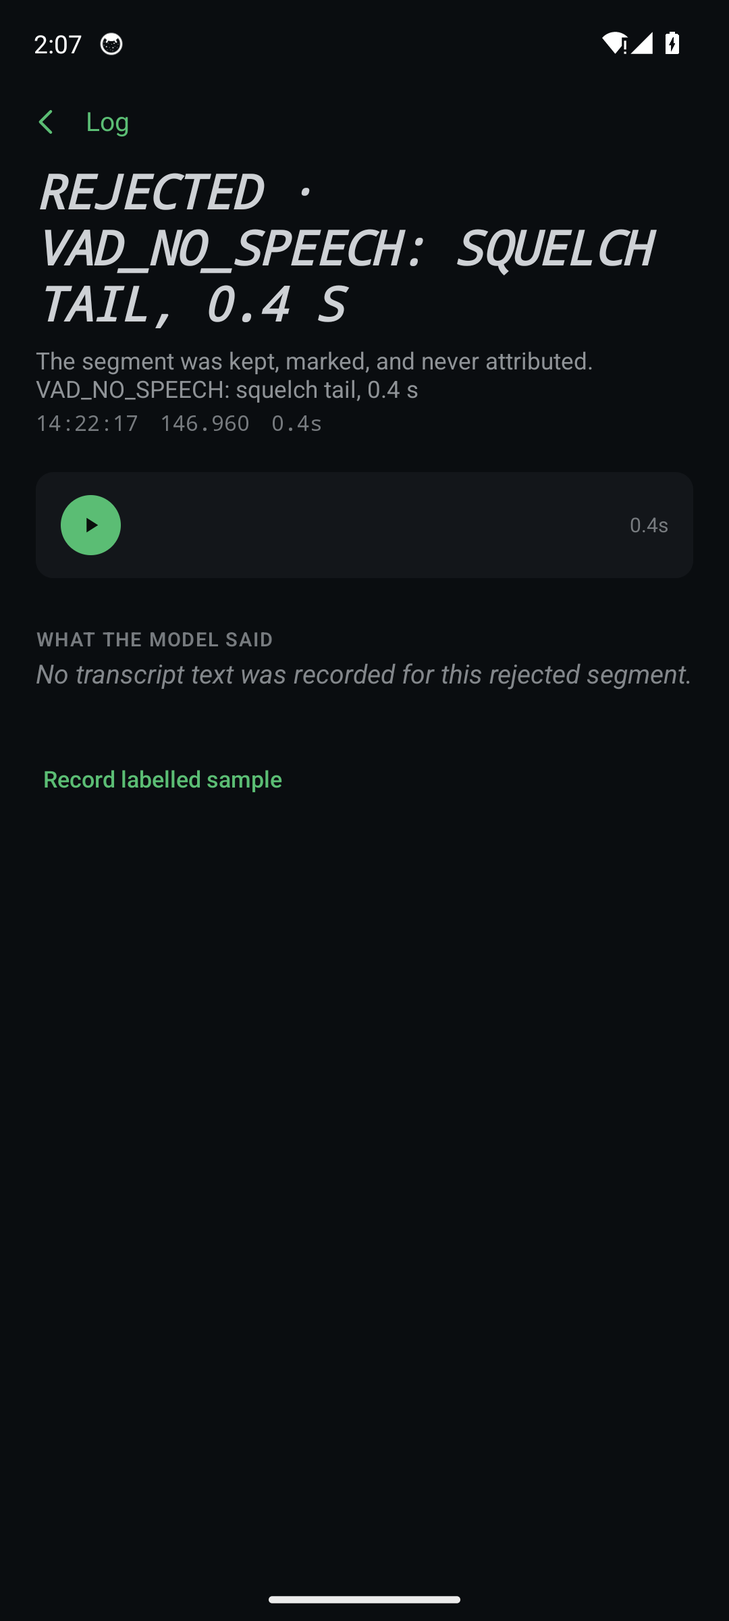
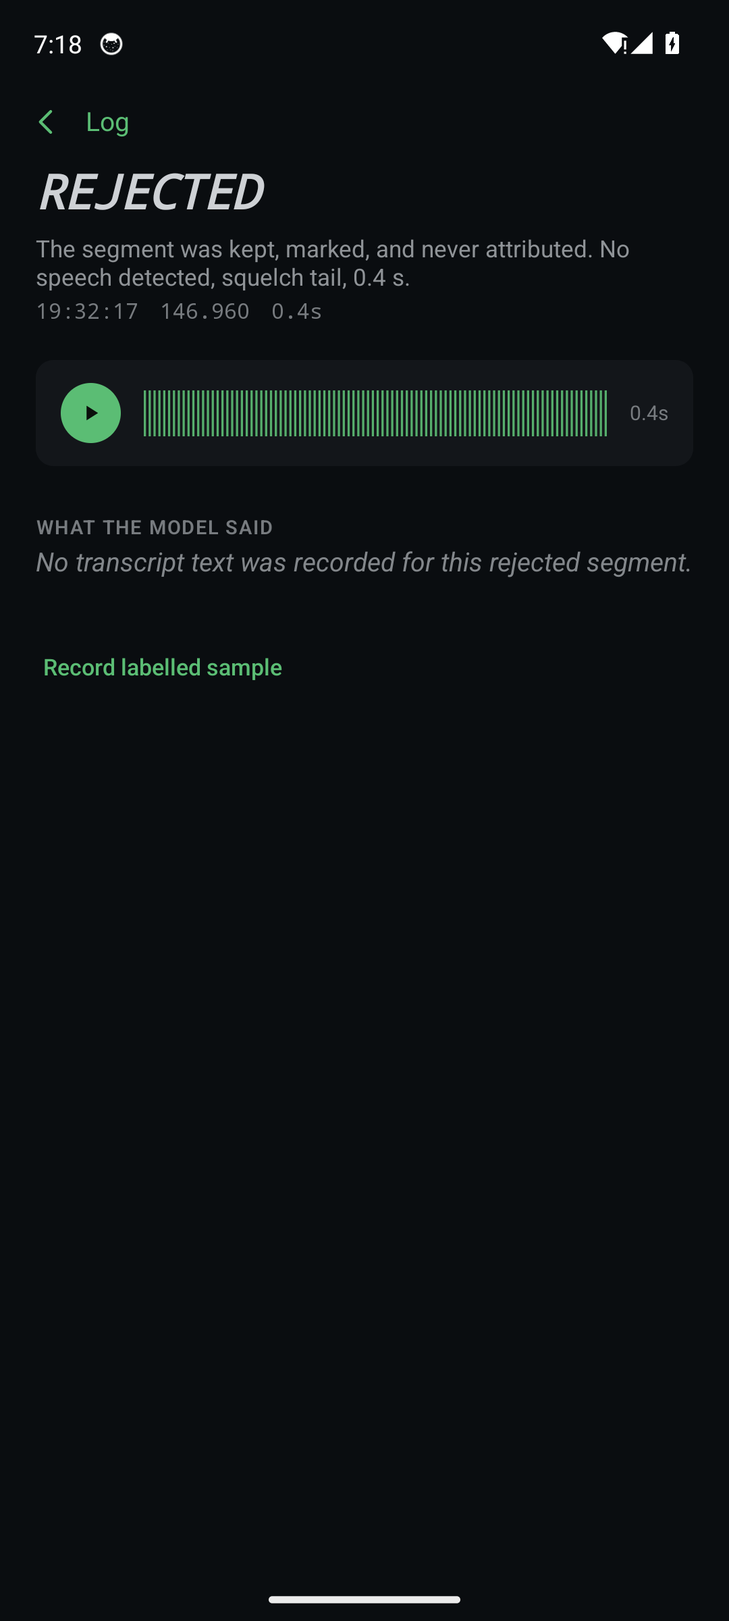
ui-conformance · V4 Detail pass 3 at 395072d: R-181/184/189/321/323/330 closed on device; R-320 grid awaits the R-421 fixture; screenshots

diff --git a/results/ui-audit/register.md b/results/ui-audit/register.md
@@ -234,15 +234,15 @@ Filed by the emulator validators (plan §E) against the build named in each row;
 | R-215 | Frequencies list | `Frequencies` | V5 @f8430b8: no "5 heard all time · 2 tonight" subtitle under the title. `stations-14-nights/FQ01.png`. WP8. Review @e927690: confirmed (`stations-14-nights/FQ01-frequencies.png`). | polish | closed |
 | R-216 | Frequency detail, Frequency-Change | `Frequency`, `Frequency-Change` | V5 @f8430b8: facts table lacks Listened (nights of N · hours) and Nets rows; subtitle shows "2 m · FM" without repeater offset / tone / type; the hour chart lacks axis labels, the "no hatch: always listening here" caption and `More`. FQ03 is unreachable because no scenario seeds a busier-than-usual night — add `frequency-change` to `app/src/debug`. `stations-14-nights/FQ02-detail.png`. WP8. V5 pass 3 @0455401: re-confirmed on `frequency-change` (`frequency-change/FQ02-146960-pass3.png`). | spec | closed |
 | R-180 | D01–D03 Why section, D05 | `Detail-Why`, FR-UI-8 | V4 @59383e0: "Why this callsign" is a raw text dump ("Lattice: ACOUSTIC · model phonetic-lattice-v1", prior rows labelled `callsign-history` / `database` — key names, not guide §9 prose) with no lattice slots, prior bars or ranked candidates; **`Full lattice` is a dead tap** — the same screen re-renders, D05 is never reached. R-051 reopened. `overnight/D05-why.png`. WP6. WP6 a9c24c6: real why-section components; "Full lattice" route confirmed working (stale `screens.json` coordinates). V4 pass 2 @ee4fd07: `Full lattice` opens D05 with real priors and survivors, but section 1 still has no per-slot lattice → R-320 (halt). WP6 7314280 closes the remaining half (per-slot grid) — see R-320. | halt | fixed |
-| R-181 | D01–D04, F18 | `Detail`, guide §6.16 | V4 @59383e0: `WaveformCard` draws only the play button and duration — the bar row is empty on every over, idle or playing. R-054 reopened. `overnight/D01-confirmed-rich.png`. WP6 (+WP2 if the card needs real samples). WP6 a9c24c6: not done — needs decoded audio; revisit once WP4 seeds real FLAC (R-290). WP6 c6b1e2c: `WaveformSummaryComputer` (96 peak buckets from the decoded retained audio via the same `FlacSegmentAudioProvider` path `play()` uses, cached per transmission; fake ships) feeds `WaveformCard`; no audio → `NoAudioNotice`, never fake bars; tests `R_181`. Review @e927690: real bars (`overnight/D01-confirmed.png`). | design | closed |
+| R-181 | D01–D04, F18 | `Detail`, guide §6.16 | V4 @59383e0: `WaveformCard` draws only the play button and duration — the bar row is empty on every over, idle or playing. R-054 reopened. `overnight/D01-confirmed-rich.png`. WP6 (+WP2 if the card needs real samples). WP6 a9c24c6: not done — needs decoded audio; revisit once WP4 seeds real FLAC (R-290). WP6 c6b1e2c: `WaveformSummaryComputer` (96 peak buckets from the decoded retained audio via the same `FlacSegmentAudioProvider` path `play()` uses, cached per transmission; fake ships) feeds `WaveformCard`; no audio → `NoAudioNotice`, never fake bars; tests `R_181`. Review @e927690: real bars (`overnight/D01-confirmed.png`). V4 pass 3 @395072d: real bars on `field-tier1`, honest notice on `no-audio` (`field-tier1/D01-waveform-pass3.png`, `no-audio/D06-pass3.png`). | design | closed |
 | R-182 | D01, D03 transcript | `Detail-Confirmed`, FR-UI-4 | V4 @59383e0: the callsign span highlights only a literal callsign string; a phonetically spelled callsign ("whiskey seven november papa charlie" — the board's own example) gets no highlight. Use the resolver's recorded span, not string search. `overnight/D01-confirmed-rich.png`. WP6. WP6 a9c24c6: not done — needs resolver span data the schema lacks; `:data`/`:lexicon` question. WP6: needs a per-candidate character span (start/end into the transcript) on `CallsignCandidateEntity` — absent from the schema; `:data` + resolver work, parked for phase G decision. lexicon 250dfbb: char spans via `TextDerivedLatticeBuilder.buildAnchored`; `:pipeline` Pass B to call it (sent), :data persists, WP6 highlights. pipeline 176f267: `PassB.resolveFromText` builds anchored lattices so real Pass B runs carry char spans (`R_182_pass_b_spans`); `:data` persistence (schema v5) and WP6 highlight remain. WP6 7314280: transcript highlight uses `winningCandidateCharSpan` (literal `indexOf` only as fallback); lexicon 250dfbb + pipeline 176f267 + data 5a53f60 supply the span. Tests `R_182`. Review @e927690: no highlight visible on D01/D03 — the seeded fixtures carry no anchored spans, so `winningCandidateCharSpan` is null and the literal fallback cannot match phonetic spelling → R-421 (fixture spans). | spec | partial |
 | R-183 | D02 Inferred header | `Detail`, FR-UI-4, R-053 | V4 @59383e0: "Not heard in this over. Matched by voice. Confidence 0.70." — no "to 02:14:07, where the callsign was heard clearly" clause and no source-over link when the attribution has a source. `overnight/D02-inferred.png`. WP6. WP6 a9c24c6: real source-over time clause. V4 pass 2 @ee4fd07: confirmed (`overnight/D02-inferred-pass2.png`, `D02-source-over-pass2.png`). Review @e927690: the source link exists as a separate line, not the inline timestamp → R-423. | spec | closed |
-| R-184 | D08 Correct-A | `Detail-Correct-A`, FR-UI-6 | V4 @59383e0: "THE RESOLVER'S OTHER CANDIDATES" renders with zero rows on every over — Tier A never offers the resolver's runner-ups, so every correction falls to Tier B/C. `overnight/D08-correct-a.png`. WP6. WP6 a9c24c6: derivation verified by test; the zero rows on device are the single-candidate fixture — WP4 to seed a multi-candidate Tier A over (`app/src/debug`). WP4 95267d4: the AMBIGUOUS over in `overnight` and `stations-14-nights` carries three ranked candidates (KE7QRS/KE7QRF/KE7QRZ); `AmbiguousCandidatesFixtureTest`. | halt | fixed |
+| R-184 | D08 Correct-A | `Detail-Correct-A`, FR-UI-6 | V4 @59383e0: "THE RESOLVER'S OTHER CANDIDATES" renders with zero rows on every over — Tier A never offers the resolver's runner-ups, so every correction falls to Tier B/C. `overnight/D08-correct-a.png`. WP6. WP6 a9c24c6: derivation verified by test; the zero rows on device are the single-candidate fixture — WP4 to seed a multi-candidate Tier A over (`app/src/debug`). WP4 95267d4: the AMBIGUOUS over in `overnight` and `stations-14-nights` carries three ranked candidates (KE7QRS/KE7QRF/KE7QRZ); `AmbiguousCandidatesFixtureTest`. V4 pass 3 @395072d: confirmed on device — reached via the AMBIGUOUS over's `Neither — it was something else` link, "THE RESOLVER'S OTHER CANDIDATES" lists all three ranked candidates with scores (`overnight/D08-correct-a-pass3.png`); the correction sheet is not reachable from the ambiguous chooser any other way (no separate `Not right?` on that state). V4 pass 3 @395072d: three ranked candidates with scores via "Neither — it was something else" (`overnight/D08-correct-a-pass3.png`). | halt | closed |
 | R-185 | D09 Correct-B | `Detail-Correct-B`, FR-SPK-7 | V4 @59383e0: "A station heard before" is the same grammar/prefix validator as Tier C — a station heard 4× in the session returns only "K7LWH / United States (K)" with no heard-count, no "voice on file", no "4 of 112". Tier B must search the stations this phone has heard and show the board's evidence. `overnight/D09-correct-b-full.png`. WP6. WP6 a9c24c6: Tier B searches real heard stations, not the lexicon (reverses audit F-018; disclosed in CHANGELOG). V4 pass 2 @ee4fd07: confirmed incl. live filtering (`overnight/D09-correct-b-filtered-pass2.png`). | halt | closed |
 | R-186 | D03 Ambiguous header | `Detail-Ambiguous` | V4 @59383e0: the header reads only "or KE7QRF" — the primary candidate's callsign is missing ("KE7QRS or KE7QRF"). `overnight/D03-ambiguous.png`. WP6 (+WP2 `TitleAttributionRow` alternate slot). WP6 a9c24c6: ambiguous header names the primary candidate. V4 pass 2 @ee4fd07: confirmed (`overnight/D03-ambiguous-pass2.png`). Review @e927690: confirmed (`overnight/D03-ambiguous.png`). | design | closed |
 | R-187 | D03 candidates | `Detail-Ambiguous`, FR-UI-4 | V4 @59383e0: both candidates read "a known station" with no evidence or score (board: "heard on this repeater 3 times · Oregon" / "never heard before · Oregon", chips 0.51 / 0.46), each a label plus a separate "Choose X" link instead of one evidence-bearing tappable row. `overnight/D03-ambiguous.png`. WP6. WP6 a9c24c6: chooser rows are one evidence-bearing clickable row with ITU-country evidence and score. V4 pass 2 @ee4fd07: confirmed. Review @e927690: both chooser rows read the identical evidence clause → R-425. | spec | open |
 | R-188 | D04 Unknown | `Detail-Unknown`, P1, P11 | V4 @59383e0: "What was tried" shows 2 of 4 checks (no voice-match count, no thread context) and the transcript caption ("Transcript confidence 0.61 · weak signal, cut off") is missing. `overnight/D04-unknown.png`. WP6. WP6 a9c24c6: not reached (transcript-confidence caption); voice-match/thread-context gaps pre-existing. WP6 79e4afd: transcript confidence caption from `TranscriptEntity.confidence`; voice-match distance and thread context need fields named in the CHANGELOG (parked). | spec | fixed |
-| R-189 | D01 after Undo all | `Detail-Propagated`, constitution I | V4 @59383e0: after `Undo all` the over's detail renders as UNKNOWN although the data reverted to CONFIRMED (the search list says "filled circle, Confirmed, W7NPC"); reproduced on a fresh navigation. `overnight/D01-after-undo-fresh.png`. WP6. V7 @b94bb5e: also reproduces ~2 s after applying a fresh typed correction (no Undo) — the poll refresh reverts the detail to UNKNOWN. WP6 a9c24c6: `CorrectionPolling.currentAttribution` keeps a corrected row's INFERRED state with null confidence instead of dropping to UNKNOWN (fixes Undo and fresh-correction paths). V4 pass 2 @ee4fd07: NOT fixed — the patch hardcodes INFERRED regardless of the real prior state → R-321 (halt). WP6 7314280: superseded by the R-321 restore path (the `currentAttribution` patch stays for the fresh-correction render). | halt | fixed |
+| R-189 | D01 after Undo all | `Detail-Propagated`, constitution I | V4 @59383e0: after `Undo all` the over's detail renders as UNKNOWN although the data reverted to CONFIRMED (the search list says "filled circle, Confirmed, W7NPC"); reproduced on a fresh navigation. `overnight/D01-after-undo-fresh.png`. WP6. V7 @b94bb5e: also reproduces ~2 s after applying a fresh typed correction (no Undo) — the poll refresh reverts the detail to UNKNOWN. WP6 a9c24c6: `CorrectionPolling.currentAttribution` keeps a corrected row's INFERRED state with null confidence instead of dropping to UNKNOWN (fixes Undo and fresh-correction paths). V4 pass 2 @ee4fd07: NOT fixed — the patch hardcodes INFERRED regardless of the real prior state → R-321 (halt). WP6 7314280: superseded by the R-321 restore path (the `currentAttribution` patch stays for the fresh-correction render). V4 pass 3 @395072d: confirmed via R-321. | halt | closed |
 | R-190 | D11 Propagated | `Detail-Propagated` | V4 @59383e0: "1 overs re-attributed", "THE 1 OVERS…"; "0 voiceprint now belongs to VE7ABC" / "0 priors updated" phrase a zero as if it happened — follow the board's zero-row pattern and the shared plural helper. `overnight/D11-propagated2.png`. WP6. WP6 a9c24c6: pluralisation, honest zero-voiceprint wording, `bg/card`, marker+badge. V4 pass 2 @ee4fd07: confirmed (`overnight/D11-propagated-pass2.png`). | design | closed |
 | R-191 | D11 Propagated | `Detail-Propagated` | V4 @59383e0: no `bg/card` around WHAT CHANGED; the affected row has no marker or `CORRECTED` badge; the subtitle lacks the method/time clause. `overnight/D11-propagated2.png`. WP6. WP6 a9c24c6: real method/time subtitle. V4 pass 2 @ee4fd07: confirmed. | design | closed |
 | R-192 | Station detail → Identity | `Station`, `Station-Identity` | V4 @59383e0: no Identity section on Station detail, F10 judged unreachable. V5 reached ST04 through the header kebab and verified rename — Identity exists as its own screen. WP8: if `Station.dc.html` shows an explicit Identity action/preview add it; make the kebab discoverable (description "Station identity"). `overnight/station-wa7hjr.png`. WP8. WP8: board has no explicit Identity action/row (checked directly); kebab now carries `contentDescription = "Station identity"` and `testTag("station-identity-open")`. V5 pass 3 @0455401: confirmed (`stations-14-nights/ST02-kebab-pass3.png`). | design | closed |
@@ -312,11 +312,11 @@ Filed by the emulator validators (plan §E) against the build named in each row;
 | R-342 | S12 Setup-Done, Input and Level rows | `Setup-Done`, guide §11.2, cf. R-265 | V1 pass 4 @a038128: R-265's fix covers Overnight/Radio/Model (one merged node, action separate — correct) but the Input and Level rows' trailing status ("verified", "in band") is still a separate unmerged node with its own description while the row reads only "Input, USB Audio Device" — TalkBack hits it as a contextless second stop. Dump: `content-desc="Input, USB Audio Device"` at `[109,401][1027,517]` and `content-desc="verified"` at `[891,417][1027,451]` as its own node. Fold the status into the row's description the way the other three rows do (the same `statusText` path), or give `KeyValueRow` a merging trailing-status slot if those rows use a different one. `setup-verified/S12-done-pass4.png`. WP9 (+WP2 if `KeyValueRow` lacks the slot). WP9 d39131a: `clearAndSetSemantics` on the row's outer node (a lone descendant `contentDescription` merged under Robolectric but not in the real `AccessibilityNodeInfo` tree); Input/Level re-dumped on device as one node. Radio row's status+action combination not re-dumped (no scenario reaches it). V1 pass 5 @a731d7a: Input and Level confirmed as one focusable node with label+value+status (dump quoted in the report); Overnight/Radio/Model have an empty focusable wrapper → R-361 (halt). V7 pass 3 @395072d: confirmed — five merged rows, actions as separate buttons. | halt | closed |
 | R-343 | S09 Setup-Rig title | `Setup-Rig` | V1 pass 4 @a038128: the board's title row is "Radio" with an 11px "optional" label beside it, baseline-aligned; the built screen shows only "Radio". `setup-radio/S09-pass4.png`. WP9. WP9 d39131a: `SetupScaffold.titleOptional` renders the "optional" tag beside "Radio". V1 pass 5 @a731d7a: confirmed (`setup-radio/S09-no-radio-pass5.png`). Review @e927690: confirmed (`setup-radio/S09-radio.png`). | design | closed |
 | R-344 | S09 "No radio — I will enter the frequency" | `Setup-Rig`, `Flow-Setup`, FR-CAP | V1 pass 4 @a038128: tapping the row whose label says "No radio — I will enter the frequency" advances straight to S12 with the Radio row reading "No radio · frequency by hand" and no number — setup completes having never collected a frequency, so every over of a session started this way would carry no frequency (constitution: never silently lose a fact). The real frequency-entry screen (honest no-rig banner, `Frequency (MHz)` field, "Enter the frequency instead" / Back) is reachable only via the second row, "Another rig with a serial CAT interface", which is the wrong row for it. Reproduced 3×. Route the third row to the frequency-entry step and require a value before S12 (S12's Radio row then shows the entered frequency); the second row keeps the CAT/USB path. `setup-radio/S09-no-radio-row-skips-to-ready-BUG-pass4.png`, `setup-radio/S10-pass4.png`. WP9 (`SetupActivity` S09 routing). WP9 d39131a: the third S09 row routes through `RADIO_USB` (frequency entry); `onEnterFrequency` refuses null and the button stays disabled until a valid MHz value; real-Activity test S09 → row → field → S12. V1 pass 5 @a731d7a: confirmed — third row → frequency entry, 146.520 → S12 "No radio · 146.520 MHz by hand", Change → S09 (`setup-radio/S09-no-radio-pass5.png`, `S10-frequency-entered-pass5.png`, `S12-radio-pass5.png`). | halt | closed |
-| R-320 | D05 Detail-Why, section 1 | `Detail-Why`, FR-UI-8, cf. R-180 | V4 pass 2 @ee4fd07: `Full lattice` opens D05 with real prior bars and the survivors list, but the phonetic-lattice section still reads "Per-slot detail (each unit's score and kept alternate) is not recorded yet." — the board's namesake per-slot grid (unit / score / kept alternate) is absent because `PhoneticLatticeEntity.unitsBlob` is opaque and no per-slot detail is persisted. Decision: `:lexicon`'s resolver must emit per-slot detail (unit, score, kept alternate, and the transcript character span — the same span R-182 needs) and `:data` must persist it (schema v5) so D05 and the D01/D03 highlight can render it; WP6 renders once it exists. `overnight/D05-why-pass2.png`. :data agent (schema + DAO) + :lexicon resolver (WP11d's agent owns `:pipeline`; resolver is `:lexicon`) + WP6. lexicon 250dfbb: `SlotDetail(index, unit, score, keptAlternate?, charStart?, charEnd?)` on `CallsignCandidate.slotDetails` (runner-up per slot, null when a slot has one alternative). :data persists (`lattice_slot`, schema v5), then WP6 renders D05. WP6 7314280: D05 section 1 renders the winning candidate's real per-slot grid from `LatticeSlotEntity` (unit / score / kept alternate, amber below the disclosed 0.7 threshold) with a grammar line from `grammarValid`; honest "not recorded for this over" for pre-v5 records. Tests `R_320` ×3. V4 pass 3 confirms. | halt | fixed |
-| R-321 | D01/D03/D11 after Undo all | `Detail-Propagated`, constitution I, cf. R-189 | V4 pass 2 @ee4fd07: R-189's patch hardcodes INFERRED-with-null-confidence, so `Undo all` after a Tier-A pick on the AMBIGUOUS over leaves the Log row reading "Unknown … corrected" while the detail shows a hollow-ring marker, a leftover CORRECTED badge and "Not heard in this over. Matched by voice." with no confidence — neither the original AMBIGUOUS chooser nor a coherent INFERRED state; the same after a typed correction on the CONFIRMED over (W7NPC). Log and detail disagree on the same transmission. Undo must restore the recorded prior attribution (state, callsign, confidence, source) from the correction record — if `CorrectionEntity` does not store the prior, `:data` must add it — and clear the CORRECTED badge. `overnight/D03-after-undo-pass2.png`, `overnight/L01-after-undo-ambiguous-pass2.png`, `overnight/D01-after-undo-confirmed-pass2.png`. WP6 (+`:data` if the prior is not recorded). WP6 dc271b5: root cause confirmed — `applyCorrectedAttribution` always writes INFERRED/null and `undoAll` reverts through the same write; `CorrectionEntity` stores only the previous callsign. :data adding `previousAttribution*` columns + `CorrectionDao.restoreAttribution` (schema v5); WP6 calls it next. WP6 7314280: `recordCorrection` snapshots the prior attribution; `undoAll` calls `restoreAttribution` — AMBIGUOUS/CONFIRMED restored exactly, CORRECTED badge cleared, audit row kept (constitution III). Tests `R_321_undo_restores_ambiguous/confirmed` via the real DAO. | halt | fixed |
+| R-320 | D05 Detail-Why, section 1 | `Detail-Why`, FR-UI-8, cf. R-180 | V4 pass 2 @ee4fd07: `Full lattice` opens D05 with real prior bars and the survivors list, but the phonetic-lattice section still reads "Per-slot detail (each unit's score and kept alternate) is not recorded yet." — the board's namesake per-slot grid (unit / score / kept alternate) is absent because `PhoneticLatticeEntity.unitsBlob` is opaque and no per-slot detail is persisted. Decision: `:lexicon`'s resolver must emit per-slot detail (unit, score, kept alternate, and the transcript character span — the same span R-182 needs) and `:data` must persist it (schema v5) so D05 and the D01/D03 highlight can render it; WP6 renders once it exists. `overnight/D05-why-pass2.png`. :data agent (schema + DAO) + :lexicon resolver (WP11d's agent owns `:pipeline`; resolver is `:lexicon`) + WP6. lexicon 250dfbb: `SlotDetail(index, unit, score, keptAlternate?, charStart?, charEnd?)` on `CallsignCandidate.slotDetails` (runner-up per slot, null when a slot has one alternative). :data persists (`lattice_slot`, schema v5), then WP6 renders D05. WP6 7314280: D05 section 1 renders the winning candidate's real per-slot grid from `LatticeSlotEntity` (unit / score / kept alternate, amber below the disclosed 0.7 threshold) with a grammar line from `grammarValid`; honest "not recorded for this over" for pre-v5 records. Tests `R_320` ×3. V4 pass 3 confirms. V4 pass 3 @395072d: honest fallback confirmed on three overs (`overnight/D05-why-pass3.png`); the grid itself needs seeded `lattice_slot` rows (R-421, WP4) before it can be confirmed. | halt | fixed |
+| R-321 | D01/D03/D11 after Undo all | `Detail-Propagated`, constitution I, cf. R-189 | V4 pass 2 @ee4fd07: R-189's patch hardcodes INFERRED-with-null-confidence, so `Undo all` after a Tier-A pick on the AMBIGUOUS over leaves the Log row reading "Unknown … corrected" while the detail shows a hollow-ring marker, a leftover CORRECTED badge and "Not heard in this over. Matched by voice." with no confidence — neither the original AMBIGUOUS chooser nor a coherent INFERRED state; the same after a typed correction on the CONFIRMED over (W7NPC). Log and detail disagree on the same transmission. Undo must restore the recorded prior attribution (state, callsign, confidence, source) from the correction record — if `CorrectionEntity` does not store the prior, `:data` must add it — and clear the CORRECTED badge. `overnight/D03-after-undo-pass2.png`, `overnight/L01-after-undo-ambiguous-pass2.png`, `overnight/D01-after-undo-confirmed-pass2.png`. WP6 (+`:data` if the prior is not recorded). WP6 dc271b5: root cause confirmed — `applyCorrectedAttribution` always writes INFERRED/null and `undoAll` reverts through the same write; `CorrectionEntity` stores only the previous callsign. :data adding `previousAttribution*` columns + `CorrectionDao.restoreAttribution` (schema v5); WP6 calls it next. WP6 7314280: `recordCorrection` snapshots the prior attribution; `undoAll` calls `restoreAttribution` — AMBIGUOUS/CONFIRMED restored exactly, CORRECTED badge cleared, audit row kept (constitution III). Tests `R_321_undo_restores_ambiguous/confirmed` via the real DAO. V4 pass 3 @395072d: confirmed on device — a Tier-A pick on the AMBIGUOUS over (KE7QRS/KE7QRF) then `Undo all` returns the over to its exact original AMBIGUOUS chooser, no CORRECTED badge, Log row agrees (`overnight/D03-after-undo-pass3.png`, `overnight/L01-after-undo-pass3.png`); a typed (Tier C, unverified) correction on the CONFIRMED over W7NPC then `Undo all` restores CONFIRMED exactly, no CORRECTED badge (`overnight/D01-after-undo-pass3.png`). V4 pass 3 @395072d: confirmed — Tier-A pick then Undo returns the AMBIGUOUS chooser, no CORRECTED badge, Log agrees; typed correction on W7NPC then Undo restores CONFIRMED (`overnight/D03-after-undo-pass3.png`, `L01-after-undo-pass3.png`, `D01-after-undo-pass3.png`). | halt | closed |
 | R-322 | L01 Log, AMBIGUOUS row | `Rows`, `Log`, cf. R-240 | V4 pass 2 @ee4fd07: the Log row still reads only "or KE7QRS" in amber with the kept candidate absent visually and in the description ("13:04:56, 145.230, Ambiguous, or KE7QRS, …"), reproduced on two Log loads; D03's header is right, so WP5's `keptCandidateFor` → `LogRowViewState.callsign` is not reaching `LogRow` on the device (test passes against a fixture shape the real mapper does not produce?). `overnight/L01-log-pass2.png`, `overnight/L01-log-real-pass2.png`. WP5 (+WP2 if `LogRow` drops it). WP5 d9d6bf0: `keptCandidateFor`/`alternateFor` read rank 0/1 instead of a `selected` flag the resolver never sets on AMBIGUOUS; `R_322` drives the real `overnight` fixture through `LogPolling` → `LogRow`. Review @e927690: confirmed "KE7QRS or KE7QRF" (`overnight/L01-log.png`). | design | closed |
-| R-323 | D05 Detail-Why priors @2x | `Detail-Why`, guide §4, AC-63 | V4 pass 2 @ee4fd07: at font scale 2.0 the prior rows wrap mid-word ("Propagatio / n", "Callsign / history") with the bar and value squeezed beside the fragment instead of reflowing beneath the label. `overnight/D05-fontscale2-pass2.png`. WP6. WP6 dc271b5: `PriorBar` splits label / meter / value and reflows the bar beneath the label at ≥1.3 scale; label/value `softWrap = false`; tests `R_323` on the unmerged tree. | design | fixed |
-| R-330 | L02 Log-Filter "Show N overs" | `Log-Filter`, guide §9 | V3 pass 3 @16172f0: the CTA counts the checked "Not-listening gaps" toggle into its total — four states checked (25+13+1+2 = 41) plus gaps reads "Show 42 overs"; unchecking gaps gives 41. A gap is not an over. `overnight/L02-filter-pass3.png`, `overnight/L02-filter-pass3@2x.png`. WP5. WP5 409d3a2: `matchingCount` excludes gaps; gap rows still interleave. | design | fixed |
+| R-323 | D05 Detail-Why priors @2x | `Detail-Why`, guide §4, AC-63 | V4 pass 2 @ee4fd07: at font scale 2.0 the prior rows wrap mid-word ("Propagatio / n", "Callsign / history") with the bar and value squeezed beside the fragment instead of reflowing beneath the label. `overnight/D05-fontscale2-pass2.png`. WP6. WP6 dc271b5: `PriorBar` splits label / meter / value and reflows the bar beneath the label at ≥1.3 scale; label/value `softWrap = false`; tests `R_323` on the unmerged tree. V4 pass 3 @395072d: confirmed on device — "Callsign history" and "In the FCC database" render on their own full line at font scale 2.0, no mid-word wrap, bar and value reflow beneath the label (`overnight/D05-pass3@2x.png`). V4 pass 3 @395072d: confirmed at 2.0 (`overnight/D05-pass3@2x.png`). | design | closed |
+| R-330 | L02 Log-Filter "Show N overs" | `Log-Filter`, guide §9 | V3 pass 3 @16172f0: the CTA counts the checked "Not-listening gaps" toggle into its total — four states checked (25+13+1+2 = 41) plus gaps reads "Show 42 overs"; unchecking gaps gives 41. A gap is not an over. `overnight/L02-filter-pass3.png`, `overnight/L02-filter-pass3@2x.png`. WP5. WP5 409d3a2: `matchingCount` excludes gaps; gap rows still interleave. V4 pass 3 @395072d: confirmed on device — with all 4 attribution states checked (25+13+1+2=41) the CTA reads "Show 41 overs" whether the "Not-listening gaps" toggle is checked or unchecked (`overnight/L02-filter-pass3.png`, `overnight/L02-filter-gaps-excluded-pass3.png`); a gap never adds to the count. V4 pass 3 @395072d: "Show 41 overs" with gaps checked or not (`overnight/L02-filter-gaps-excluded-pass3.png`). | design | closed |
 | R-331 | L05 Log-Rejected row, F04 rejected detail | `Log-Rejected`, `Fail-Hallucination`, guide §9, cf. R-242 | V3 pass 3 @16172f0: the REASON column and the detail title/explanatory line render the raw cause enum verbatim — "REJECTED · VAD_NO_SPEECH: SQUELCH TAIL, 0.4 S" — where the board shows "rejected · squelch tail" (list, mono uppercase) and "REJECTED" alone (detail title); the human why-line beneath is right. The list row's DUR reads "0 s" for a 0.4 s segment (whole-second rounding loses the figure; the detail shows "0.4s"). `overnight/L05-rejected-pass3.png`, `overnight/F04-rejected-detail-pass3.png`. WP5 (list REASON/DUR) + WP6 (detail title). WP5 409d3a2 (list half): `shortReasonFor` maps the six rule tokens to the board's short phrases; durations under 1 s read "0.4 s". Detail title half with WP6 round 9. WP6 2d23768: detail title "REJECTED" with `LogItemsMapper.whyFor` beneath (shared with WP5's list). Both halves landed. V7 pass 3 @395072d: no enum tokens anywhere; "rejected, squelch tail" in the merged description. | design | closed |
 | R-332 | T02 Thread-Detail inherited line | `Thread-Detail`, FR-UI-4, guide §6.7, cf. R-241 | V3 pass 3 @16172f0: the reasoning line reads "inherited from transmission 01M21DXK9HAJAP3X66DF80FTSZ at 14:24:06" — a raw ULID in operator copy where the board shows "inherited by voice from 02:16:02" with the time as the link; the whole line is plain faint prose with no link affordance although tappable (guide §6.7). Same at 2.0. `overnight/T02-thread-detail-pass3.png`, `overnight/T02-thread-detail-pass3@2x.png`. WP5. WP5 409d3a2: "inherited by voice from 02:16:02" / "by callsign" from real fields, no ULID; the time styled as a mono/green link inside the tap target. Review @e927690: "inherited by voice from 19:09:04" with the time as a link (`overnight/T02-thread-detail.png`). | design | closed |
 | R-333 | System back from every drill-in, sheet and the drawer | `design-intent.md` §0 | V3 pass 3 @16172f0: one system back press exits the whole app to the launcher instead of popping one level — reproduced after fresh `pm clear` from (a) the L02 filter sheet over L01, (b) D01 opened from an L01 row, (c) the rejected detail opened from L05, (d) the open drawer on Now. The in-app back chevron pops correctly every time, and the FQ03 → Log route (R-276, which has a `BackHandler`) returns correctly, so the host simply has no `BackHandler` for the generic drill-in/sheet/drawer states. This is the single most common gesture in the app. `overnight/D01-before-back-pass3.png`, `overnight/after-back-exits-to-home-pass3.png`. WP3 (`OrtNavHost`/`ReaderActivity`: one `BackHandler(enabled = navState.canPop)` that closes the drawer, then any open sheet, then the drill-in, before letting the Activity finish). WP3 d021fd4: `OrtNavHostBackHandler` — close drawer → pop drill-in → restore FQ03 / Settings-Storage origins → only then finish; smoke test with sabotage check. The private L02 and Search filter sheets need their own `BackHandler` (WP5, WP7 sent). WP3 d021fd4 (host `OrtNavHostBackHandler`) + WP5 37bcf99 (`LogContent` sheet `BackHandler`) + WP7 3342719 (`SearchContent` filters sheet `BackHandler`), all merged at a731d7a; V7 pass 2 / V3 pass 4 confirm on device. V7 pass 3 @395072d: confirmed on device — D01→Log, L02 sheet closes, drawer closes, Search filters sheet closes, never exits. | halt | closed |
